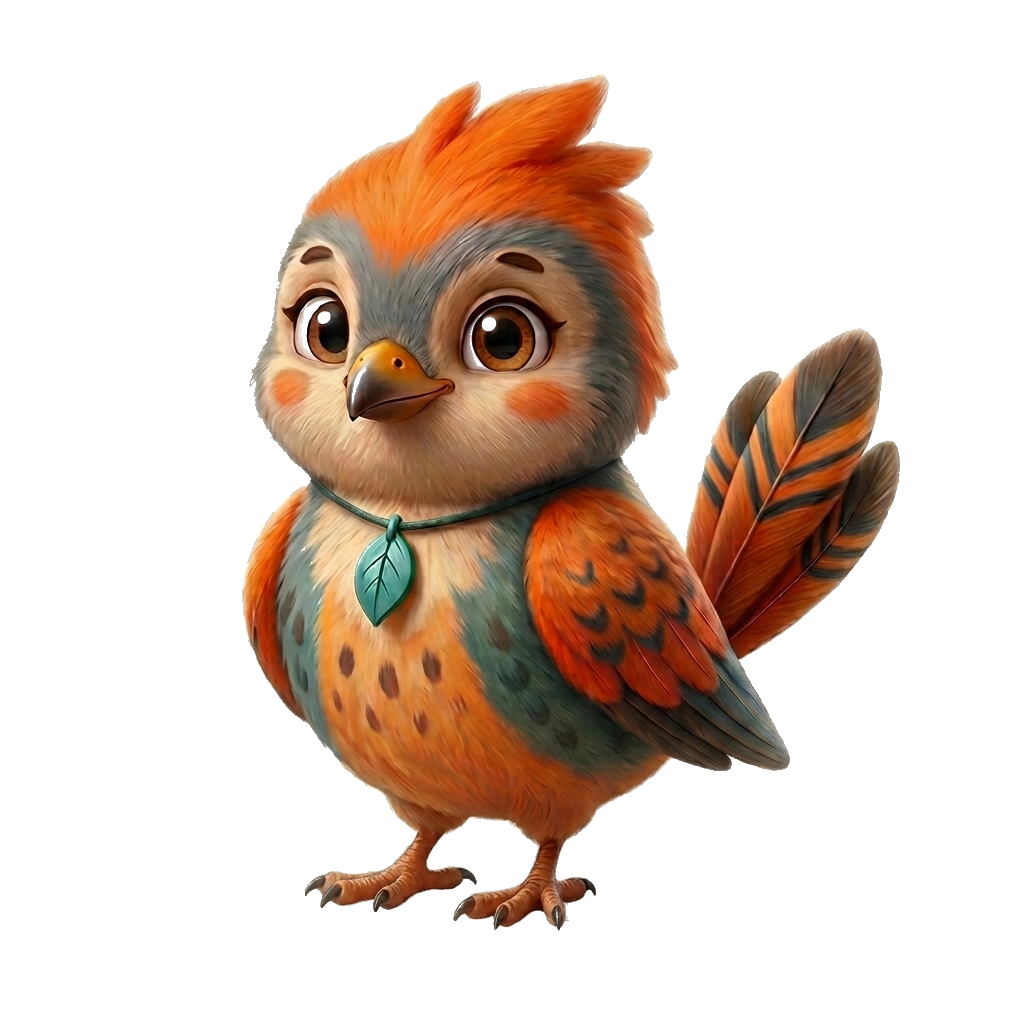
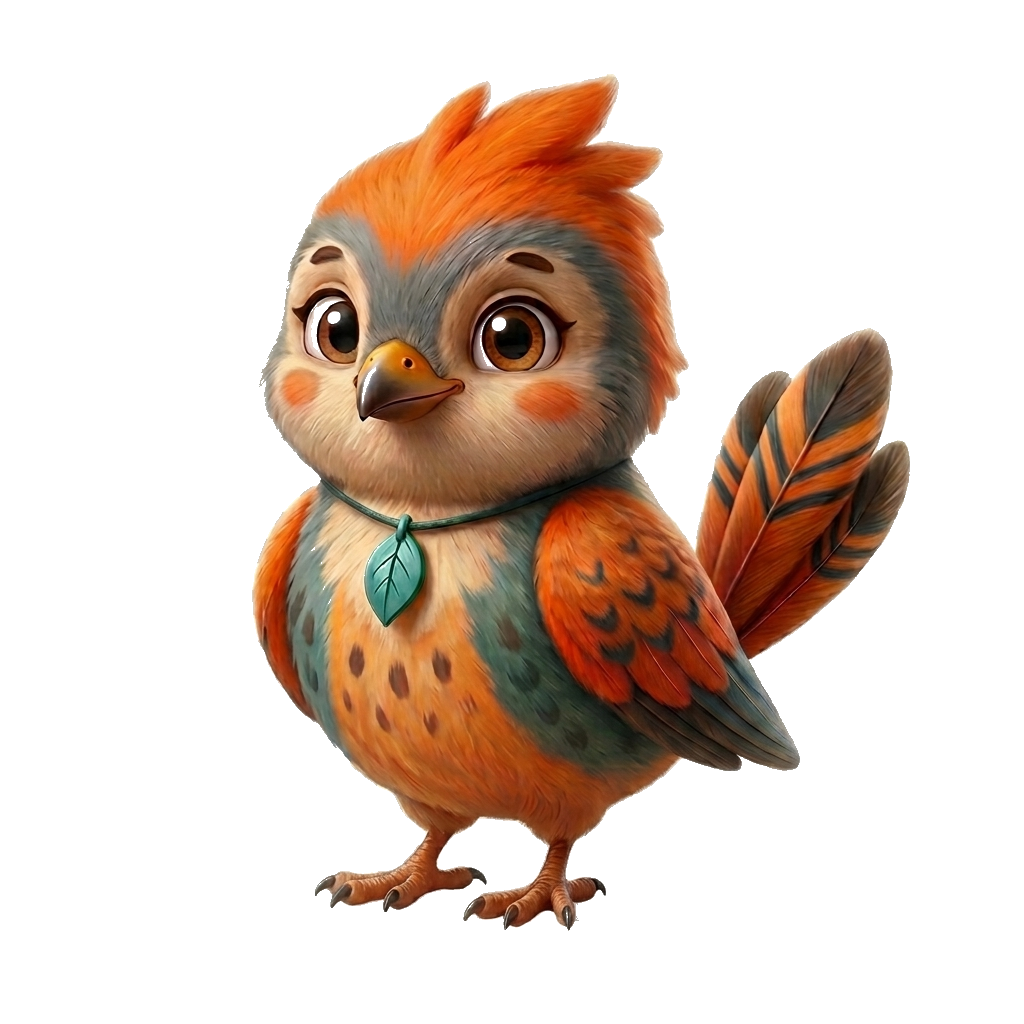
Mascote: +1% direita no canvas, círculo maior (76→92px)

Changed region(s): [[0.2188, 0.0625, 0.9062, 0.9062], [0.5625, 0.7812, 0.5938, 0.8125]]

diff --git a/src/app/avaliacao/page.tsx b/src/app/avaliacao/page.tsx
@@ -14,7 +14,7 @@ export default function AvaliacaoPage() {
         {/* Conteúdo */}
         <div className="flex-1 px-[22px] pt-2 flex flex-col">
           {/* Emblema */}
-          <div className="self-center w-[76px] h-[76px] rounded-full bg-[#FAF0E4] border border-white overflow-hidden mt-1.5">
+          <div className="self-center w-[92px] h-[92px] rounded-full bg-[#FAF0E4] border border-white overflow-hidden mt-1.5">
             {/* eslint-disable-next-line @next/next/no-img-element */}
             <img src="/mascote.png" alt="" className="w-full h-full object-cover" style={{ objectPosition: "50% center" }} />
           </div>

diff --git a/src/app/profissionais/inscricao/page.tsx b/src/app/profissionais/inscricao/page.tsx
@@ -189,7 +189,7 @@ export default function InscricaoProfissionalPage() {
 
       <div className="max-w-2xl mx-auto w-full flex-1 px-[18px]">
         <div className="pt-8 pb-2 flex flex-col items-center text-center">
-          <div className="w-[76px] h-[76px] rounded-full bg-[#FAF0E4] border border-white overflow-hidden mb-4">
+          <div className="w-[92px] h-[92px] rounded-full bg-[#FAF0E4] border border-white overflow-hidden mb-4">
             {/* eslint-disable-next-line @next/next/no-img-element */}
             <img src="/mascote.png" alt="" className="w-full h-full object-cover" style={{ objectPosition: "50% center" }} />
           </div>